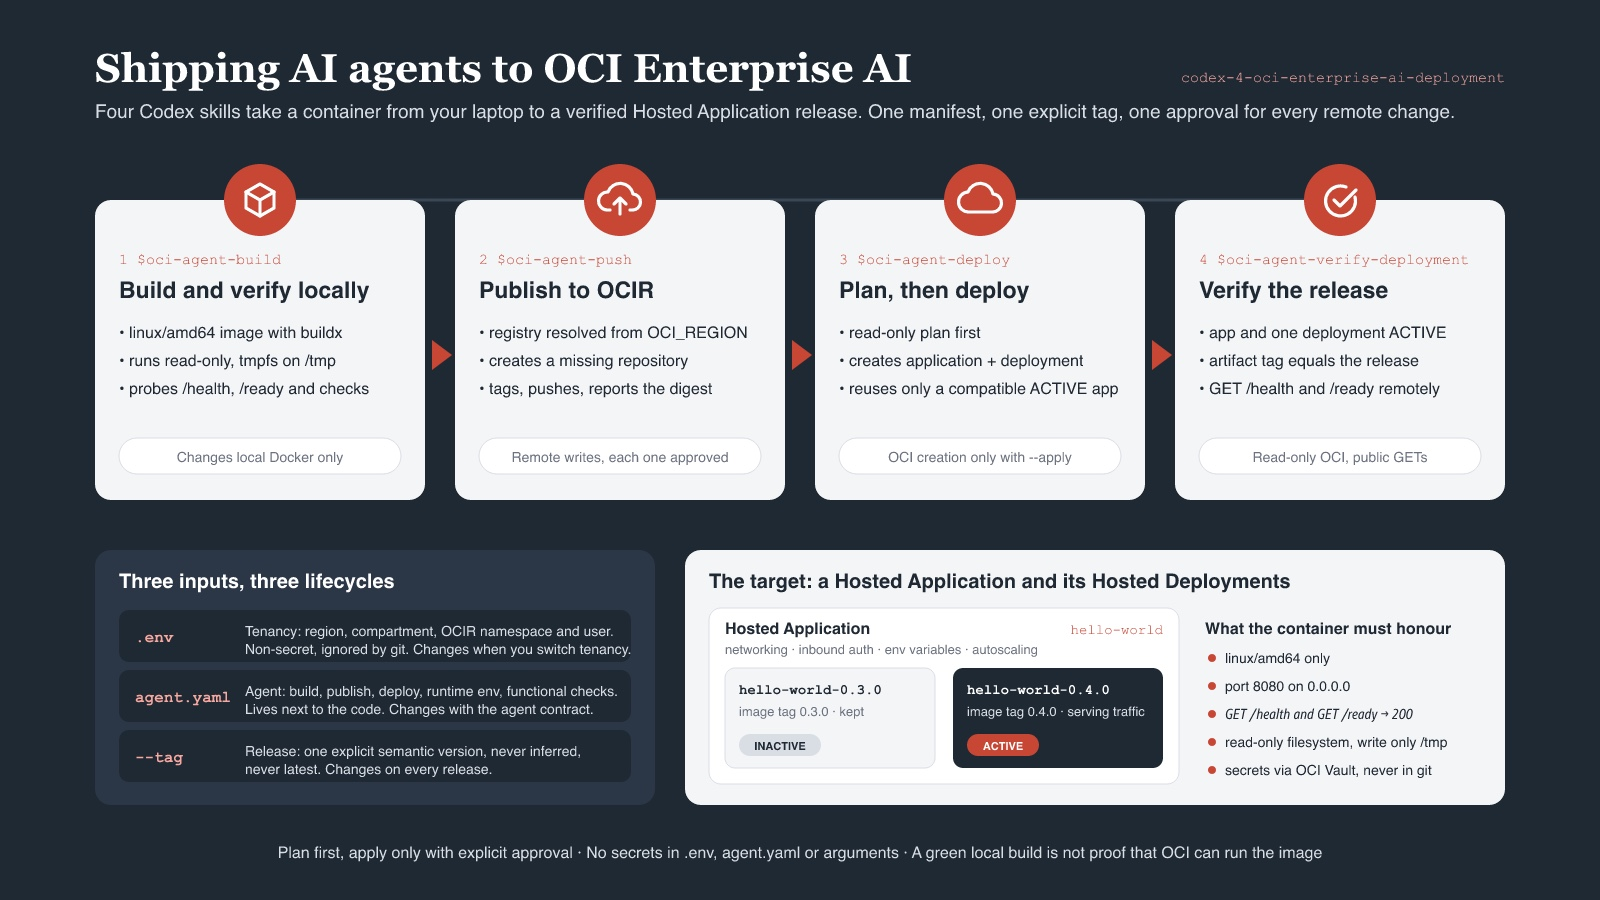
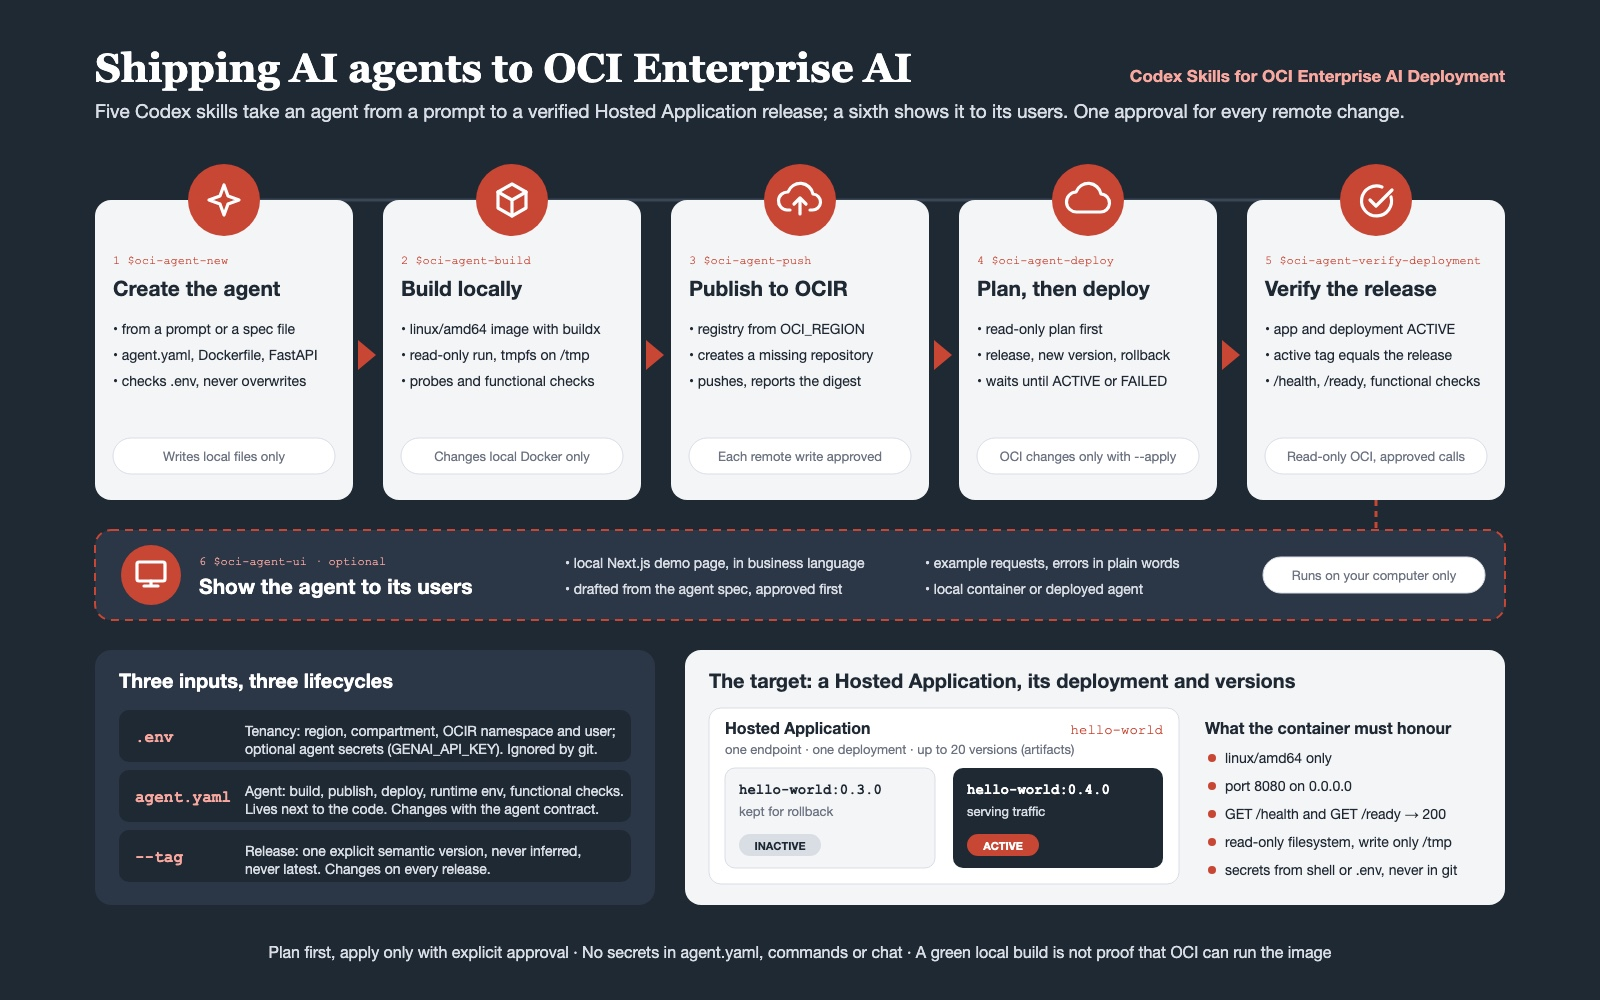
updated image

Changed region(s): [[0.0625, 0.0311, 0.9375, 0.9644], [0.0938, 0.84, 0.125, 0.8711]]

diff --git a/README.md b/README.md
@@ -124,7 +124,8 @@ agent on OCI:
 7. the setup check;
 8. the fixes for what fails;
 9. a test release of the example agent;
-10. your first agent.
+10. your first agent;
+11. optionally, a demo page for its users.
 
 Your tenancy administrator prepares the compartment and the IAM policies once:
 see [For the administrator](docs/getting-started.md#for-the-administrator).
